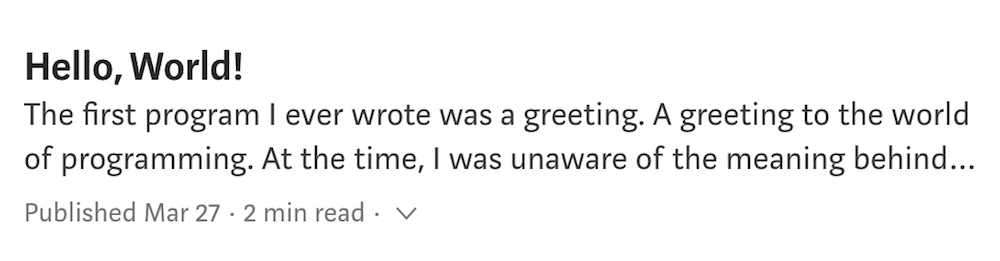
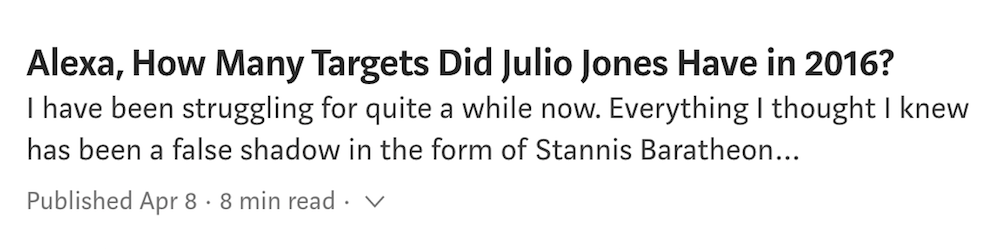
Add medium article and update resume

diff --git a/index.html b/index.html
@@ -76,10 +76,10 @@
             <a href="" target="_blank">
               <img src="assets/medium/post4.png" class="post" title="">
             </a>
-            <a href="" target="_blank">
-              <img src="assets/medium/post3.png" class="post" title="">
-            </a>
 -->
+            <a href="https://medium.com/@swaHiiili/alexa-how-many-targets-did-julio-jones-have-in-2016-15380e1724b5" target="_blank">
+              <img src="assets/medium/post3.png" class="post" title="Alexa, How Many Targets Did Julio Jones Have in 2016?">
+            </a>
             <a href="https://medium.com/@swaHiiili/the-sickness-c152a44d6c78" target="_blank">
               <img src="assets/medium/post2.png" class="post" title="The Sickness">
             </a>
